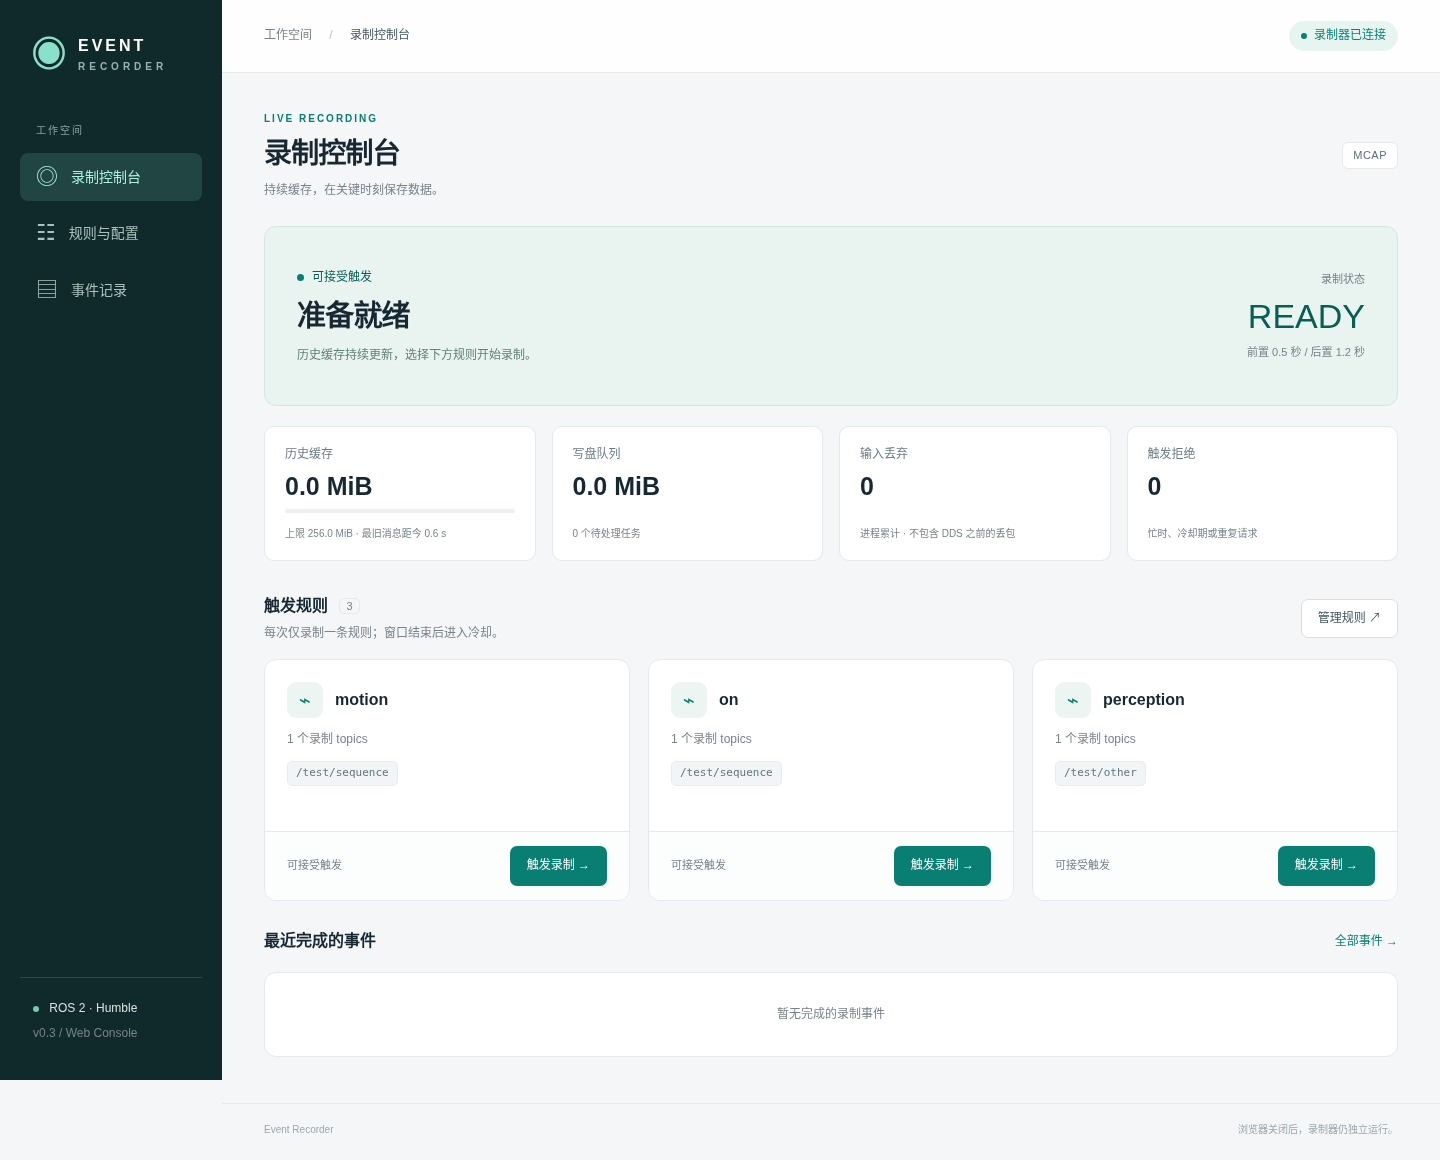
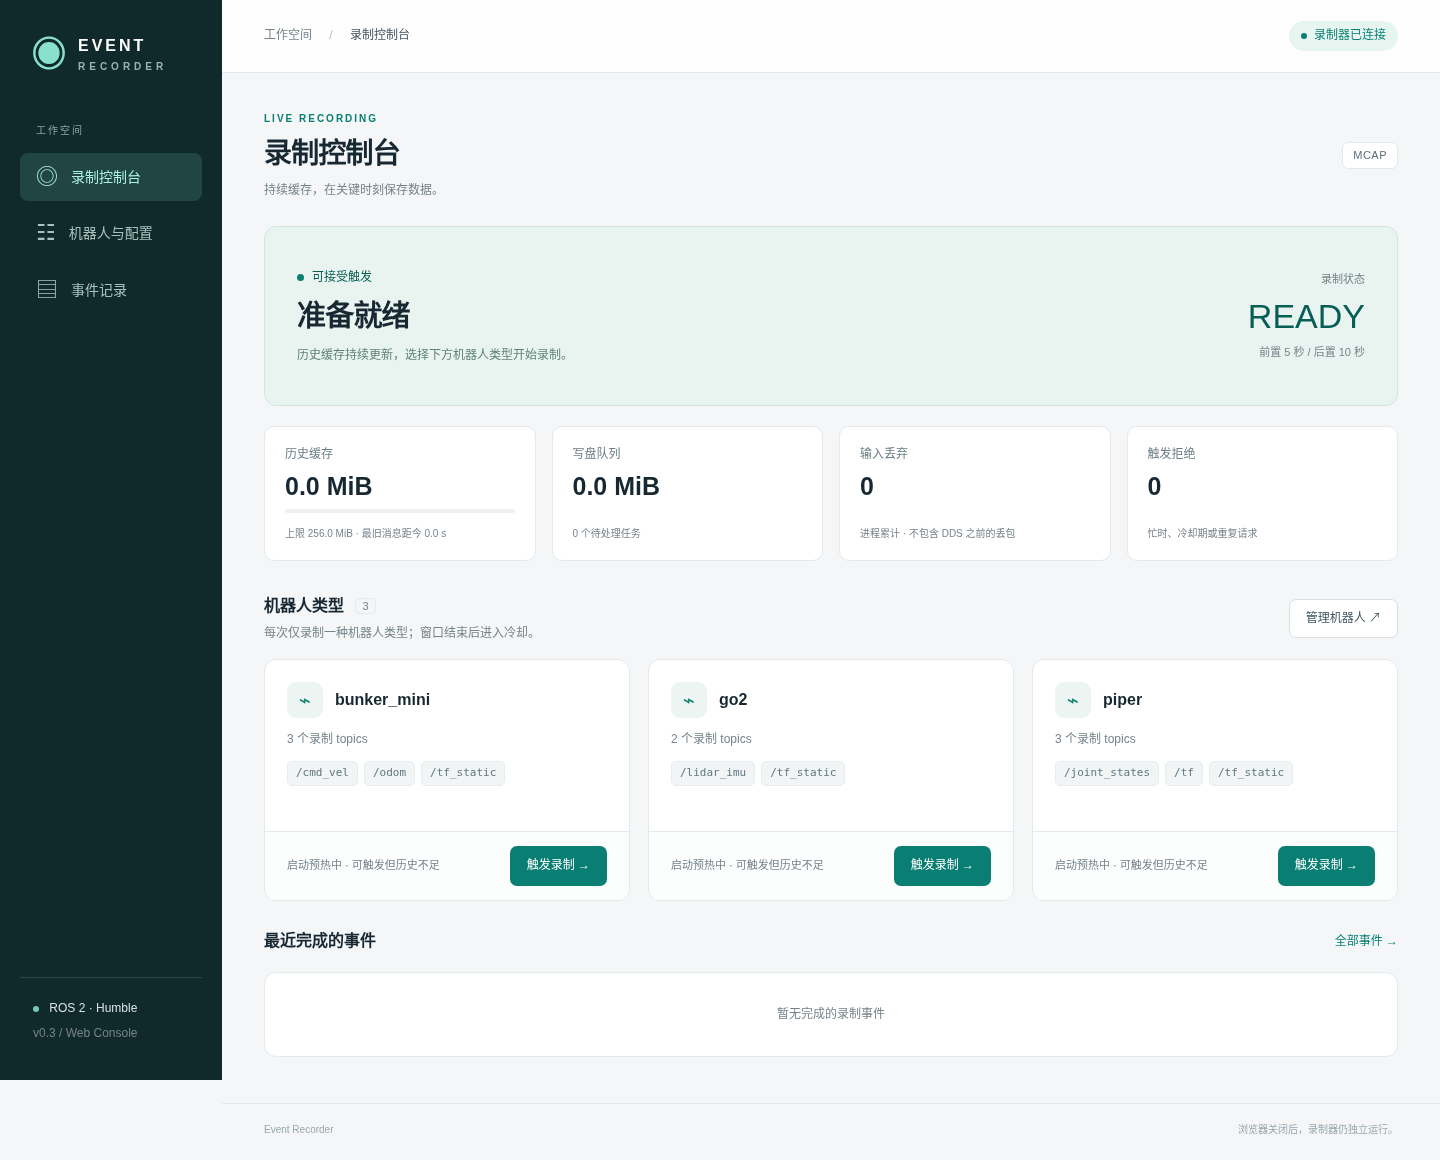
Organize recorder profiles by go2, bunker_mini and piper robot types

diff --git a/src/event_recorder/web/static/index.html b/src/event_recorder/web/static/index.html
@@ -11,7 +11,7 @@
     <div class="nav-label">工作空间</div>
     <nav aria-label="主导航">
       <button class="nav-item active" data-tab="overview"><span>◎</span>录制控制台</button>
-      <button class="nav-item" data-tab="configuration"><span>☷</span>规则与配置</button>
+      <button class="nav-item" data-tab="configuration"><span>☷</span>机器人与配置</button>
       <button class="nav-item" data-tab="events"><span>▤</span>事件记录</button>
     </nav>
     <div class="sidebar-footer"><span class="small-dot"></span> ROS 2 · Humble<br><span class="muted">v0.3 / Web Console</span></div>
@@ -22,7 +22,7 @@
       <div id="notice" class="notice hidden" role="status"></div>
       <section id="overview" class="page">
         <div class="page-heading"><div><div class="eyebrow">LIVE RECORDING</div><h1>录制控制台</h1><p>持续缓存，在关键时刻保存数据。</p></div><span id="storage-badge" class="pill">—</span></div>
-        <div id="restart-notice" class="notice warning hidden">已保存的配置与运行配置不同。重启 recorder 后生效，当前按钮仍使用运行中的规则。<button data-open="configuration" class="text-button">查看配置 →</button></div>
+        <div id="restart-notice" class="notice warning hidden">已保存的配置与运行配置不同。重启 recorder 后生效，当前按钮仍使用运行中的机器人类型。<button data-open="configuration" class="text-button">查看配置 →</button></div>
         <div class="status-panel" id="status-panel" data-state="OFFLINE">
           <div><div class="status-overline"><span class="status-light"></span><span id="state-label">等待连接录制器</span></div><div class="state-title" id="state-title">连接中</div><p id="state-description">正在获取录制器状态…</p><div id="active-event" class="mono subtle"></div></div>
           <div class="status-right"><span class="muted" id="timer-label">录制状态</span><strong id="countdown">—</strong><span id="window-summary" class="subtle">前置 — 秒 / 后置 — 秒</span></div>
@@ -33,13 +33,13 @@
           <article class="metric"><span>输入丢弃</span><strong id="input-drops">—</strong><small>进程累计 · 不包含 DDS 之前的丢包</small></article>
           <article class="metric"><span>触发拒绝</span><strong id="trigger-rejections">—</strong><small>忙时、冷却期或重复请求</small></article>
         </div>
-        <div class="section-heading"><div><h2>触发规则 <span id="rule-count" class="count">0</span></h2><p>每次仅录制一条规则；窗口结束后进入冷却。</p></div><button class="button secondary" data-open="configuration">管理规则 ↗</button></div>
+        <div class="section-heading"><div><h2>机器人类型 <span id="rule-count" class="count">0</span></h2><p>每次仅录制一种机器人类型；窗口结束后进入冷却。</p></div><button class="button secondary" data-open="configuration">管理机器人 ↗</button></div>
         <div id="trigger-cards" class="trigger-grid"><div class="empty">等待运行中的 trigger list…</div></div>
         <div class="section-heading"><h2>最近完成的事件</h2><button class="text-button" data-open="events">全部事件 →</button></div>
         <div id="last-event" class="panel empty">暂无完成的录制事件</div>
       </section>
       <section id="configuration" class="page hidden">
-        <div class="page-heading"><div><div class="eyebrow">CONFIGURATION</div><h1>规则与配置</h1><p>统一注册数据 topic，再为每条 trigger 选择需要录制的内容。</p></div><span id="config-dirty" class="pill">已加载</span></div>
+        <div class="page-heading"><div><div class="eyebrow">CONFIGURATION</div><h1>机器人与配置</h1><p>统一注册数据 topic，再为每种机器人选择需要录制的内容。</p></div><span id="config-dirty" class="pill">已加载</span></div>
         <div class="notice neutral">配置保存到 YAML 文件，不会中断当前录制。保存后需重启 recorder 才能生效。</div>
         <form id="config-form">
           <article class="panel"><div class="section-heading compact"><h2>录制窗口</h2><span class="muted">接收时间 · 单调时钟</span></div><div class="form-grid four">
@@ -48,11 +48,11 @@
             <label>历史保留 <span>秒</span><input id="history_retention_seconds" type="number" min="0.001" step="any" required></label>
             <label>触发冷却 <span>秒</span><input id="trigger_cooldown_seconds" type="number" min="0.001" step="any" required></label>
           </div></article>
-          <article class="panel"><div class="section-heading compact"><div><h2>数据 topics</h2><p>所有规则共享订阅与缓存。上下文 topic 使用 reliable / transient-local。</p></div><button type="button" id="add-topic" class="button secondary">＋ 添加 topic</button></div>
+          <article class="panel"><div class="section-heading compact"><div><h2>数据 topics</h2><p>所有机器人类型共享订阅与缓存。上下文 topic 使用 reliable / transient-local。</p></div><button type="button" id="add-topic" class="button secondary">＋ 添加 topic</button></div>
             <div class="discovery"><button type="button" id="discover" class="button subtle-button">发现 ROS topics</button><select id="discovered" aria-label="发现的 ROS topics"><option value="">选择运行中的 topic…</option></select><button type="button" id="import-topic" class="text-button">加入列表</button></div>
             <div class="table-scroll"><table class="topic-table"><thead><tr><th>Topic 名称</th><th>消息类型</th><th>可靠性</th><th>持久性</th><th>上下文</th><th></th></tr></thead><tbody id="topic-rows"></tbody></table></div>
           </article>
-          <article class="panel"><div class="section-heading compact"><div><h2>Trigger list</h2><p>名称必须唯一。默认规则用于通用 Trigger 服务。</p></div><button type="button" id="add-rule" class="button secondary">＋ 添加规则</button></div><div id="rule-rows"></div></article>
+          <article class="panel"><div class="section-heading compact"><div><h2>机器人类型</h2><p>名称必须唯一。默认类型用于通用 Trigger 服务。</p></div><button type="button" id="add-rule" class="button secondary">＋ 添加机器人类型</button></div><div id="rule-rows"></div></article>
           <article class="panel"><div class="section-heading compact"><h2>存储与内存预算</h2></div><div class="form-grid two">
             <label>存储格式<select id="storage_id"><option value="mcap">MCAP</option><option value="sqlite3">SQLite3</option></select></label>
             <label>输出目录<input id="output_directory" required placeholder="event_bags"></label>

diff --git a/src/event_recorder/web/gui_config.py b/src/event_recorder/web/gui_config.py
@@ -95,7 +95,7 @@ def validate(parameters):
             raise ValueError(f'{key} 应与普通 topic 一一对应')
     names = strings('trigger_list', [])
     if len(set(names)) != len(names) or any(not NAME.fullmatch(n) for n in names):
-        raise ValueError('trigger 名称必须唯一，由字母开头，仅包含字母、数字或下划线')
+        raise ValueError('机器人类型名称必须唯一，由字母开头，仅包含字母、数字或下划线')
     for name in names:
         key = f'triggers.{name}.topics'
         selected = strings(key, [])
@@ -103,7 +103,7 @@ def validate(parameters):
             raise ValueError(f'trigger {name} 必须选择已注册且不重复的 topic')
     p.setdefault('default_trigger', names[0] if names else 'default')
     if p['default_trigger'] not in (names or ['default']):
-        raise ValueError('默认 trigger 必须存在于 trigger list 中')
+        raise ValueError('默认机器人类型必须存在于 trigger list 中')
     allowed = set(TIME_DEFAULTS) | set(BUDGET_DEFAULTS) | {
         'storage_id', 'output_directory', 'use_sim_time', 'topics', 'types', 'context_topics',
         'context_types', 'reliability', 'durability', 'trigger_list', 'default_trigger',

diff --git a/src/event_recorder/web/web_gui.py b/src/event_recorder/web/web_gui.py
@@ -62,7 +62,7 @@ class Bridge(Node):
         if not snapshot['online']:
             raise ApiError(503, '录制器离线或状态已超时，未发送触发请求')
         if rule not in snapshot['recorder'].get('rules', {}):
-            raise ApiError(400, '运行中的配置没有这条 trigger 规则')
+            raise ApiError(400, '运行中的配置没有这种机器人类型')
         with self.lock:
             client = self.trigger_clients.get(rule)
             if client is None:
@@ -228,7 +228,7 @@ def make_handler(app):
                 elif path == '/api/trigger':
                     rule = data.get('rule')
                     if not isinstance(rule, str) or len(rule) > 512:
-                        raise ValueError('trigger 名称无效')
+                        raise ValueError('机器人类型名称无效')
                     result = app.bridge.trigger_rule(rule)
                 else:
                     raise ApiError(404, '接口不存在')

diff --git a/README.md b/README.md
@@ -14,11 +14,11 @@ ros2 run event_recorder recorder --ros-args \
   --params-file src/event_recorder/config/recorder.yaml
 ```
 
-在配置中将 `topics`、`types` 改为目标 topic 及其完整消息类型；`reliability` 和 `durability` 与 topic 数组一一对应，省略时分别为 `best_effort` 和 `volatile`。默认示例注册 `/imu/data`、`/points_raw` 和 `/tf_static`。上下文 topic 使用 reliable/transient-local；普通 topic 可分别配置 QoS。
+在配置中将 `topics`、`types` 改为目标 topic 及其完整消息类型；`reliability` 和 `durability` 与 topic 数组一一对应，省略时分别为 `best_effort` 和 `volatile`。默认示例注册 `/lidar_imu`、`/odom`、`/cmd_vel`、`/joint_states`、`/tf` 和 `/tf_static`。上下文 topic 使用 reliable/transient-local；普通 topic 可分别配置 QoS。
 
 ## 轻量 Web GUI（v0.3）
 
-![Web GUI 控制台（测试数据示例）](docs/gui-overview.png)
+![Web GUI 控制台（默认机器人类型配置）](docs/gui-overview.png)
 
 无需 Node.js、npm 或数据库。运行依赖为 ROS 2 自带的 rclpy、std_msgs、std_srvs、launch_ros，以及 Python PyYAML。构建后在工作目录执行：
 
@@ -35,8 +35,8 @@ ros2 launch event_recorder gui.launch.py \
   config:=/home/nezha/recorder.local.yaml port:=8080
 ```
 
-- **录制控制台**：运行状态、后置窗口/冷却倒计时、历史缓存与写盘队列、输入丢弃与触发拒绝计数；每条运行中的规则对应一个触发按钮。按钮等待 recorder 的实际反馈，显示接受的事件 ID 或拒绝原因。
-- **规则与配置**：编辑数据 topic、类型与 QoS，或从 ROS graph 发现 topic；管理规则与录制 topic 清单；设置窗口、存储目录、格式及内存预算。保存会校验配置、检测并发修改并保留一份 `.bak`。
+- **录制控制台**：运行状态、后置窗口/冷却倒计时、历史缓存与写盘队列、输入丢弃与触发拒绝计数；每种运行配置中的机器人对应一个触发按钮。按钮等待 recorder 的实际反馈，显示接受的事件 ID 或拒绝原因。
+- **机器人与配置**：编辑数据 topic、类型与 QoS，或从 ROS graph 发现 topic；管理机器人类型与录制 topic 清单；设置窗口、存储目录、格式及内存预算。保存会校验配置、检测并发修改并保留一份 `.bak`。
 - **事件记录**：显示输出目录内最近 100 个事件，含规则、消息数、完整性状态、错误及 bag 路径。没有删除文件或停止录制的操作。
 
 保存配置**不热更新、不重启节点**。页面会提示“待重启”，录制按钮继续使用运行中的规则。完成当前录制后，在启动终端 Ctrl+C，再重新运行同一条 launch 命令使配置生效。不要在录制过程中重启，否则当前窗口会被标记截断。
@@ -72,36 +72,40 @@ ros2 launch event_recorder gui.launch.py host:=0.0.0.0
 ### ROS / HTTP 接口
 
 - `/event_recorder/status`：`std_msgs/msg/String`，5Hz YAML 状态快照，reliable/transient-local；包含运行配置、规则、缓存/队列、最近完成事件。超过 2 秒未收到新状态时 GUI 显示离线并禁用触发。
-- `/event_recorder/triggers/<规则名>`：`std_srvs/srv/Trigger`，返回实际接受结果；通用 `/event_recorder/trigger` 服务使用 default_trigger。原 topic 触发入口保持兼容。
-- HTTP `GET /api/state`、`/api/config`、`/api/topics`、`/api/events`；`POST /api/trigger`（`{"rule":"motion"}`）、`/api/config`（parameters 与 revision）。后者保存文件，触发接口不会自行重试。若回应超时，页面会提示结果未知，需检查状态。
+- `/event_recorder/triggers/<机器人类型名称>`：`std_srvs/srv/Trigger`，返回实际接受结果；通用 `/event_recorder/trigger` 服务使用 default_trigger。原 topic 触发入口保持兼容。
+- HTTP `GET /api/state`、`/api/config`、`/api/topics`、`/api/events`；`POST /api/trigger`（`{"rule":"go2"}`）、`/api/config`（parameters 与 revision）。后者保存文件，触发接口不会自行重试。若回应超时，页面会提示结果未知，需检查状态。
 
-## Trigger list
+## 机器人类型（Trigger list）
 
-所有数据 topic 的名称、类型及 QoS 在顶层统一注册，持续订阅并共享一份历史缓存；`trigger_list` 管理规则名称，每条规则的 `topics` 决定实际写入 bag 的数据。上下文 topic（例如 `/tf_static`）也需要显式选入规则。
+所有数据 topic 的名称、类型及 QoS 在顶层统一注册，持续订阅并共享一份历史缓存；`trigger_list` 按机器人类型管理配置，每种机器人的 `topics` 决定实际写入 bag 的数据。机器人类型只是录制配置的名称，不会自动识别机器人或执行异常检测；底层 `rule` / `trigger_rule` 字段和接口保持兼容。上下文 topic（例如 `/tf_static`）也需要显式选入规则。
 
 ```yaml
 event_recorder:
   ros__parameters:
     # topics/types/reliability/durability/context_topics 等仍按示例配置注册
     trigger_cooldown_seconds: 3.0
-    trigger_list: [motion, perception]
-    default_trigger: motion
+    trigger_list: [go2, bunker_mini, piper]
+    default_trigger: go2
     triggers:
-      motion:
-        topics: [/imu/data, /tf_static]
-      perception:
-        topics: [/points_raw, /tf_static]
+      go2:
+        topics: [/lidar_imu, /tf_static]
+      bunker_mini:
+        topics: [/odom, /cmd_vel, /tf_static]
+      piper:
+        topics: [/joint_states, /tf, /tf_static]
 ```
 
-统一入口 `/event_recorder/trigger` 使用 `std_msgs/msg/String`，格式为 **`规则名|请求ID|原因`**。规则名只允许字母开头、后续字母/数字/下划线，名称区分大小写。请求 ID 为空时不去重；也可以只发送规则名匿名触发。
+**示例 topic 需要按实际驱动确认**：`/lidar_imu` 来自之前验证的 Go2 bag，其他为标准 ROS topic 示例，尚未在 Bunker Mini/Piper 实机上验证。可在 GUI 中修改；如果多个机器人同时运行，应给 topic 配置独立 namespace，类型名称本身不会隔离同名 topic。
+
+统一入口 `/event_recorder/trigger` 使用 `std_msgs/msg/String`，格式为 **`机器人类型名称|请求ID|原因`**。机器人类型名称只允许字母开头、后续字母/数字/下划线，名称区分大小写。请求 ID 为空时不去重；也可以只发送机器人类型名称匿名触发。
 
 ```bash
 ros2 topic pub --once /event_recorder/trigger std_msgs/msg/String \
-  "{data: 'motion|alarm-001|motion anomaly'}"
+  "{data: 'go2|alarm-001|robot anomaly'}"
 ros2 topic pub --once /event_recorder/trigger std_msgs/msg/String \
-  "{data: 'perception|alarm-002|point cloud anomaly'}"
+  "{data: 'bunker_mini|alarm-002|chassis anomaly'}"
 # 匿名触发指定规则：
-ros2 topic pub --once /event_recorder/trigger std_msgs/msg/String "{data: 'motion'}"
+ros2 topic pub --once /event_recorder/trigger std_msgs/msg/String "{data: 'piper'}"
 # 服务触发配置中的 default_trigger：
 ros2 service call /event_recorder/trigger std_srvs/srv/Trigger '{}'
 ```
@@ -113,9 +117,9 @@ ros2 service call /event_recorder/trigger std_srvs/srv/Trigger '{}'
 3. 窗口结束后从目标截止时间开始休眠 3 秒；如果旧事件还未完成写盘，则继续拒绝新 trigger。
 4. 冷却结束且写盘完成后，才允许接受下一次 trigger。被拒绝的请求不会等待条件满足后自动执行，发送方需要重新发起。
 
-例如 T=100s 接受 motion，录制窗口为 [95s,110s]，最早在 113s 接受下一次 trigger（若写盘完成）。期间 perception 请求会被拒绝，既不会加入当前 bag，也不会自动创建后续 bag。缓存仍持续更新，因此下一次规则也能获得前置历史。
+例如 T=100s 接受 go2，录制窗口为 [95s,110s]，最早在 113s 接受下一次 trigger（若写盘完成）。期间 bunker_mini 请求会被拒绝，既不会加入当前 bag，也不会自动创建后续 bag。缓存仍持续更新，因此下一次规则也能获得前置历史。
 
-默认 60 秒内按 `(规则名, 请求ID)` 去重，只有已接受的请求进入去重缓存；不同规则可以使用相同 ID。未知规则、未注册 topic、重复规则名、空 topic 清单等会被拒绝或使启动失败。日志区分 `busy`、`cooldown`、`finalizing`、`duplicate_id` 等原因，事件元数据保存 `trigger_rule`、选中的 topic、冷却截止时间及累计拒绝数量。
+默认 60 秒内按 `(机器人类型名称, 请求ID)` 去重，只有已接受的请求进入去重缓存；不同规则可以使用相同 ID。未知规则、未注册 topic、重复机器人类型名称、空 topic 清单等会被拒绝或使启动失败。日志区分 `busy`、`cooldown`、`finalizing`、`duplicate_id` 等原因，事件元数据保存 `trigger_rule`、选中的 topic、冷却截止时间及累计拒绝数量。
 
 v0.3 起，服务返回的 success 表示事件管理器已经实际接受/拒绝本次触发；message 是包含 accepted、rule、event_id 和 reason 的 YAML。服务位于独立回调组，等待结果不会阻塞数据订阅。内部队列用于串行判定，不会保留被拒绝的请求等待重试。时间戳定义为进入排序入口的接收时间。
 

diff --git a/VALIDATION.md b/VALIDATION.md
@@ -71,3 +71,7 @@
 报告：[GUI 端到端](reports/v03_gui.json)、[MCAP trigger 专项](reports/v03_triggers_mcap.json)、[SQLite3 trigger 专项](reports/v03_triggers_sqlite3.json)、[MCAP 完整回归](reports/v03_mcap_acceptance.json)。截图见 [控制台](docs/gui-overview.png)，本机 `validation/gui_v03_final/` 还保存了配置页和手机截图及日志。
 
 测试设备为本机 Ubuntu 22.04 / ROS 2 Humble，浏览器为本机 Google Chrome，Playwright 1.48 为临时测试依赖。尚未在 AGX Orin 上实测，不包含 TLS、持续高并发 HTTP 或当前版本性能复测。GUI 不提供运行中热更新、自动重启、删除 bag 或停止正在进行的录制。
+
+## 2026-11-26：按机器人类型命名
+
+默认配置改为 go2 / bunker_mini / piper，默认类型 go2，GUI 文案改为机器人类型。配置通过校验，示例使用的标准消息类型在 Humble 环境中可加载。构建通过，并在独立 ROS domain 88 启动默认配置验证实时状态和三种类型的按钮、配置页名称，Chrome 无页面错误；更新了控制台截图。此次验证未触发录制，未重复执行此前的完整 rosbag 回归。Bunker Mini/Piper 的 topic 清单是待实机确认的示例，不代表已完成对应机器人驱动适配。
